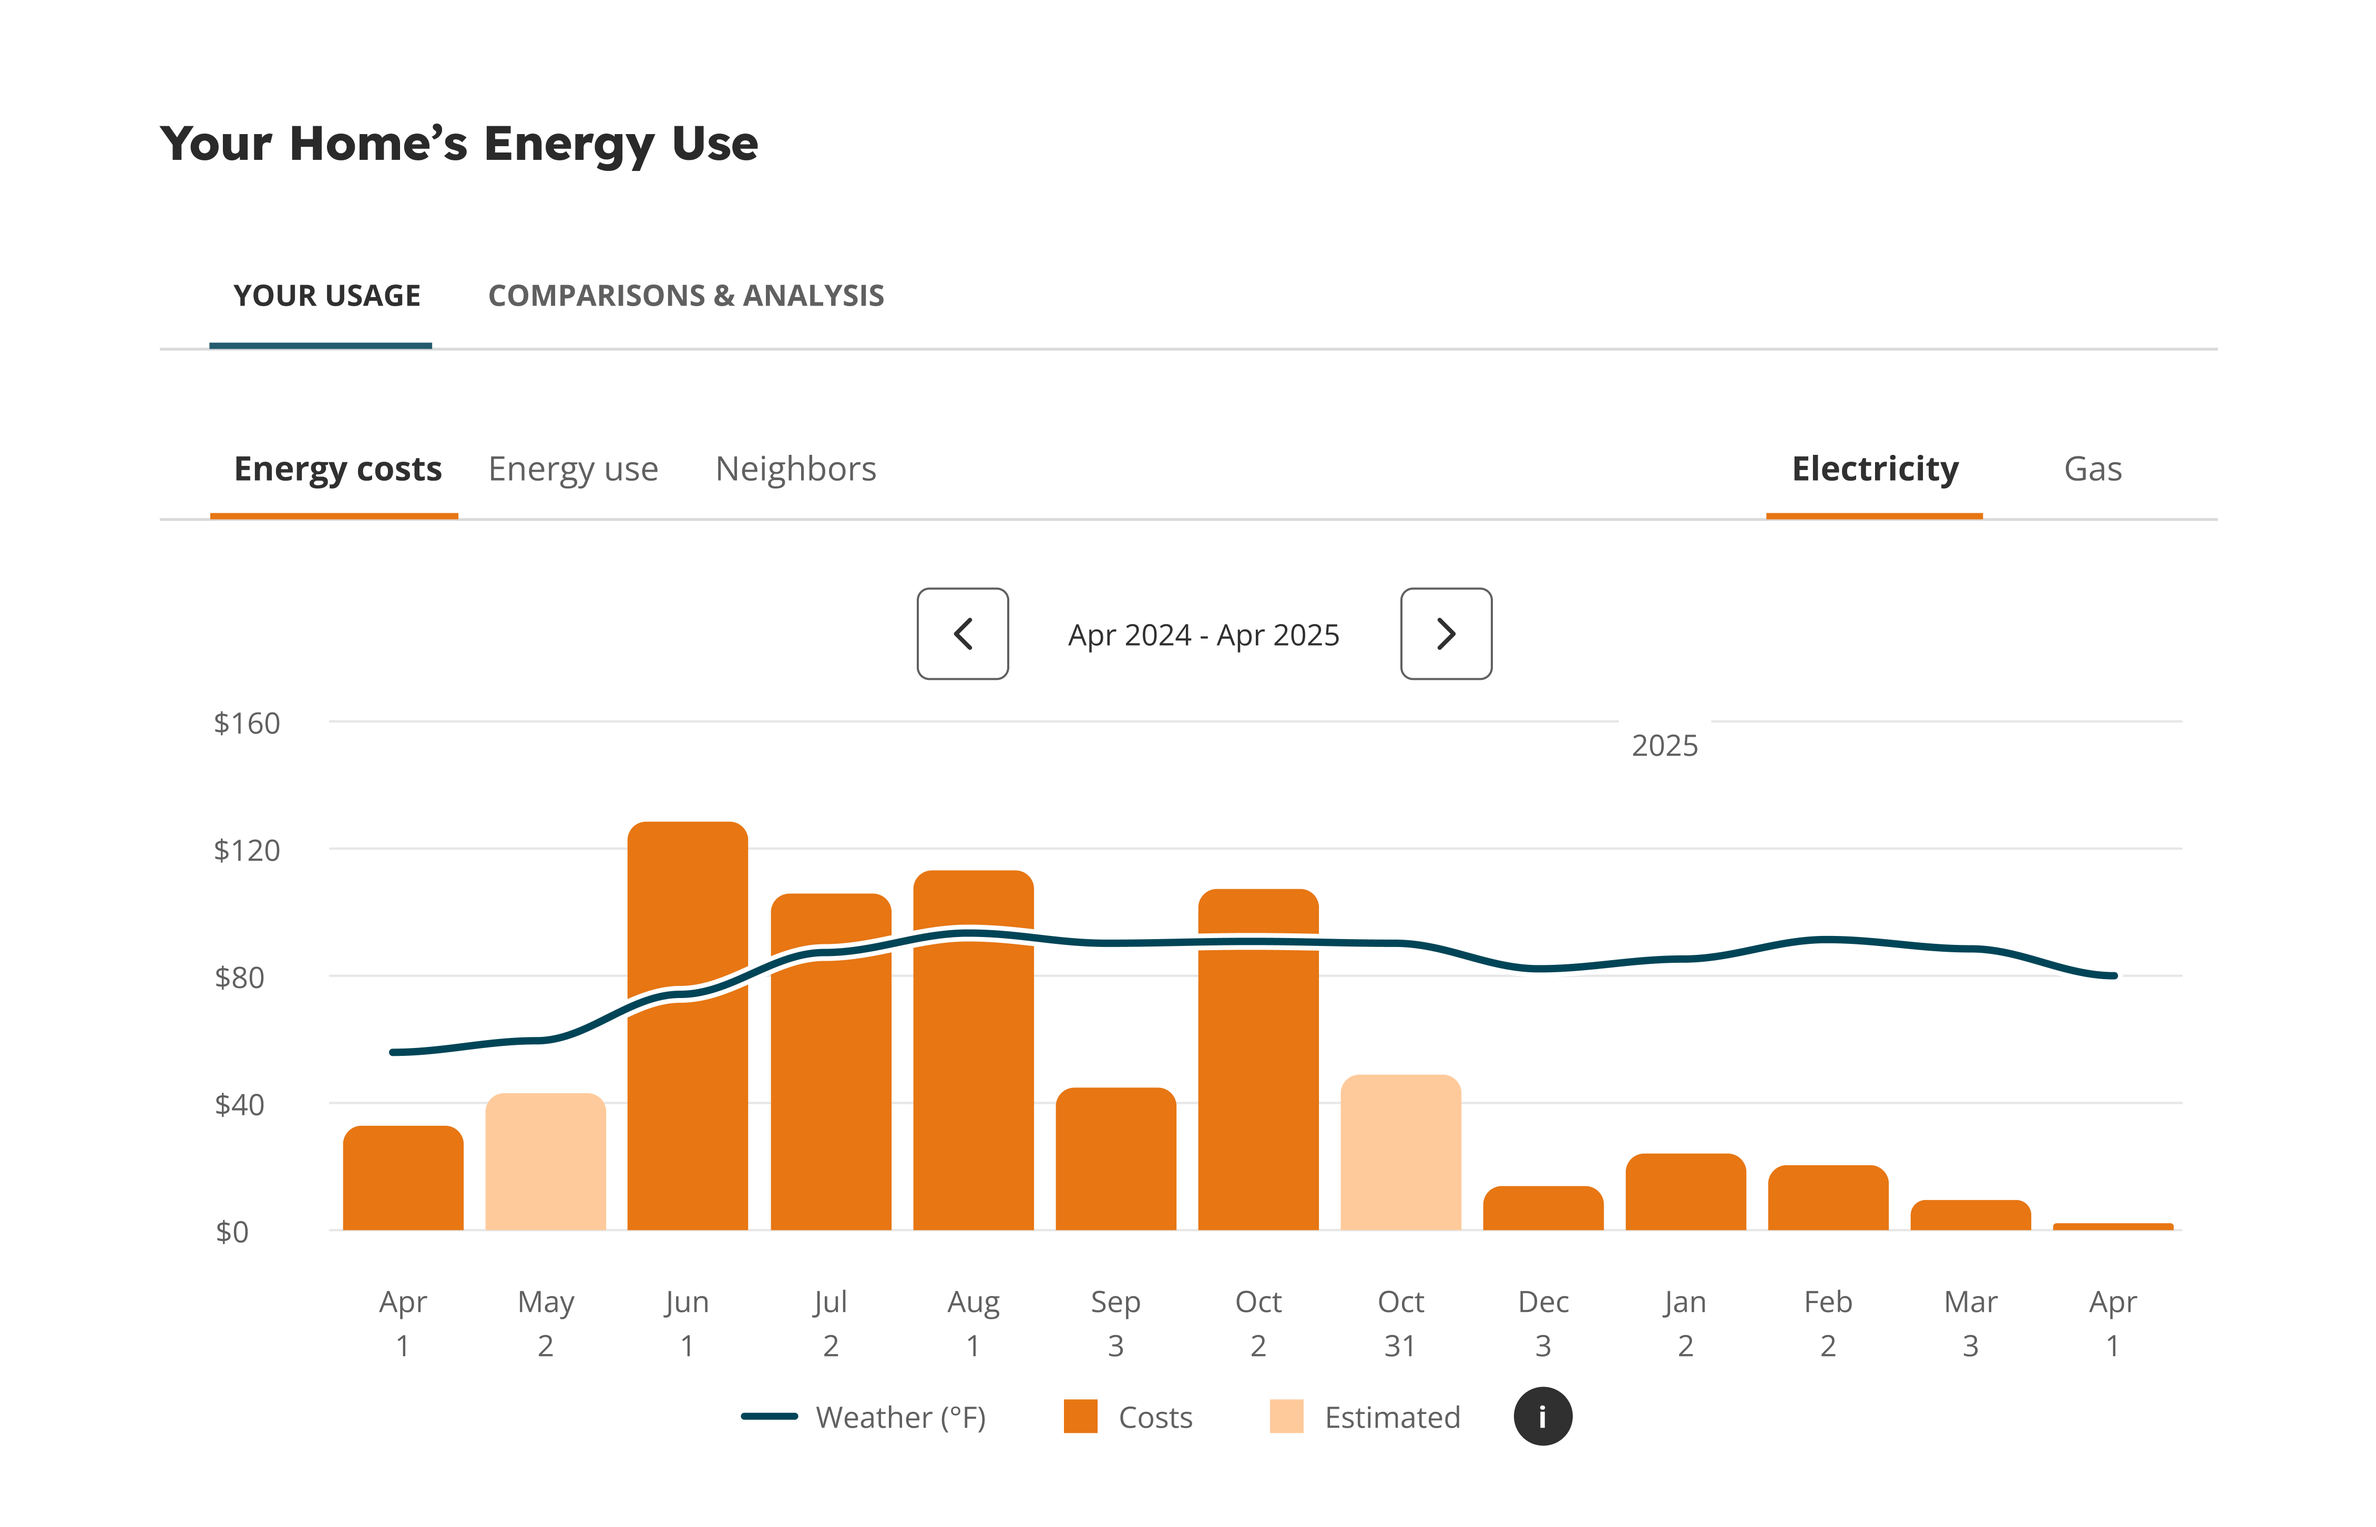
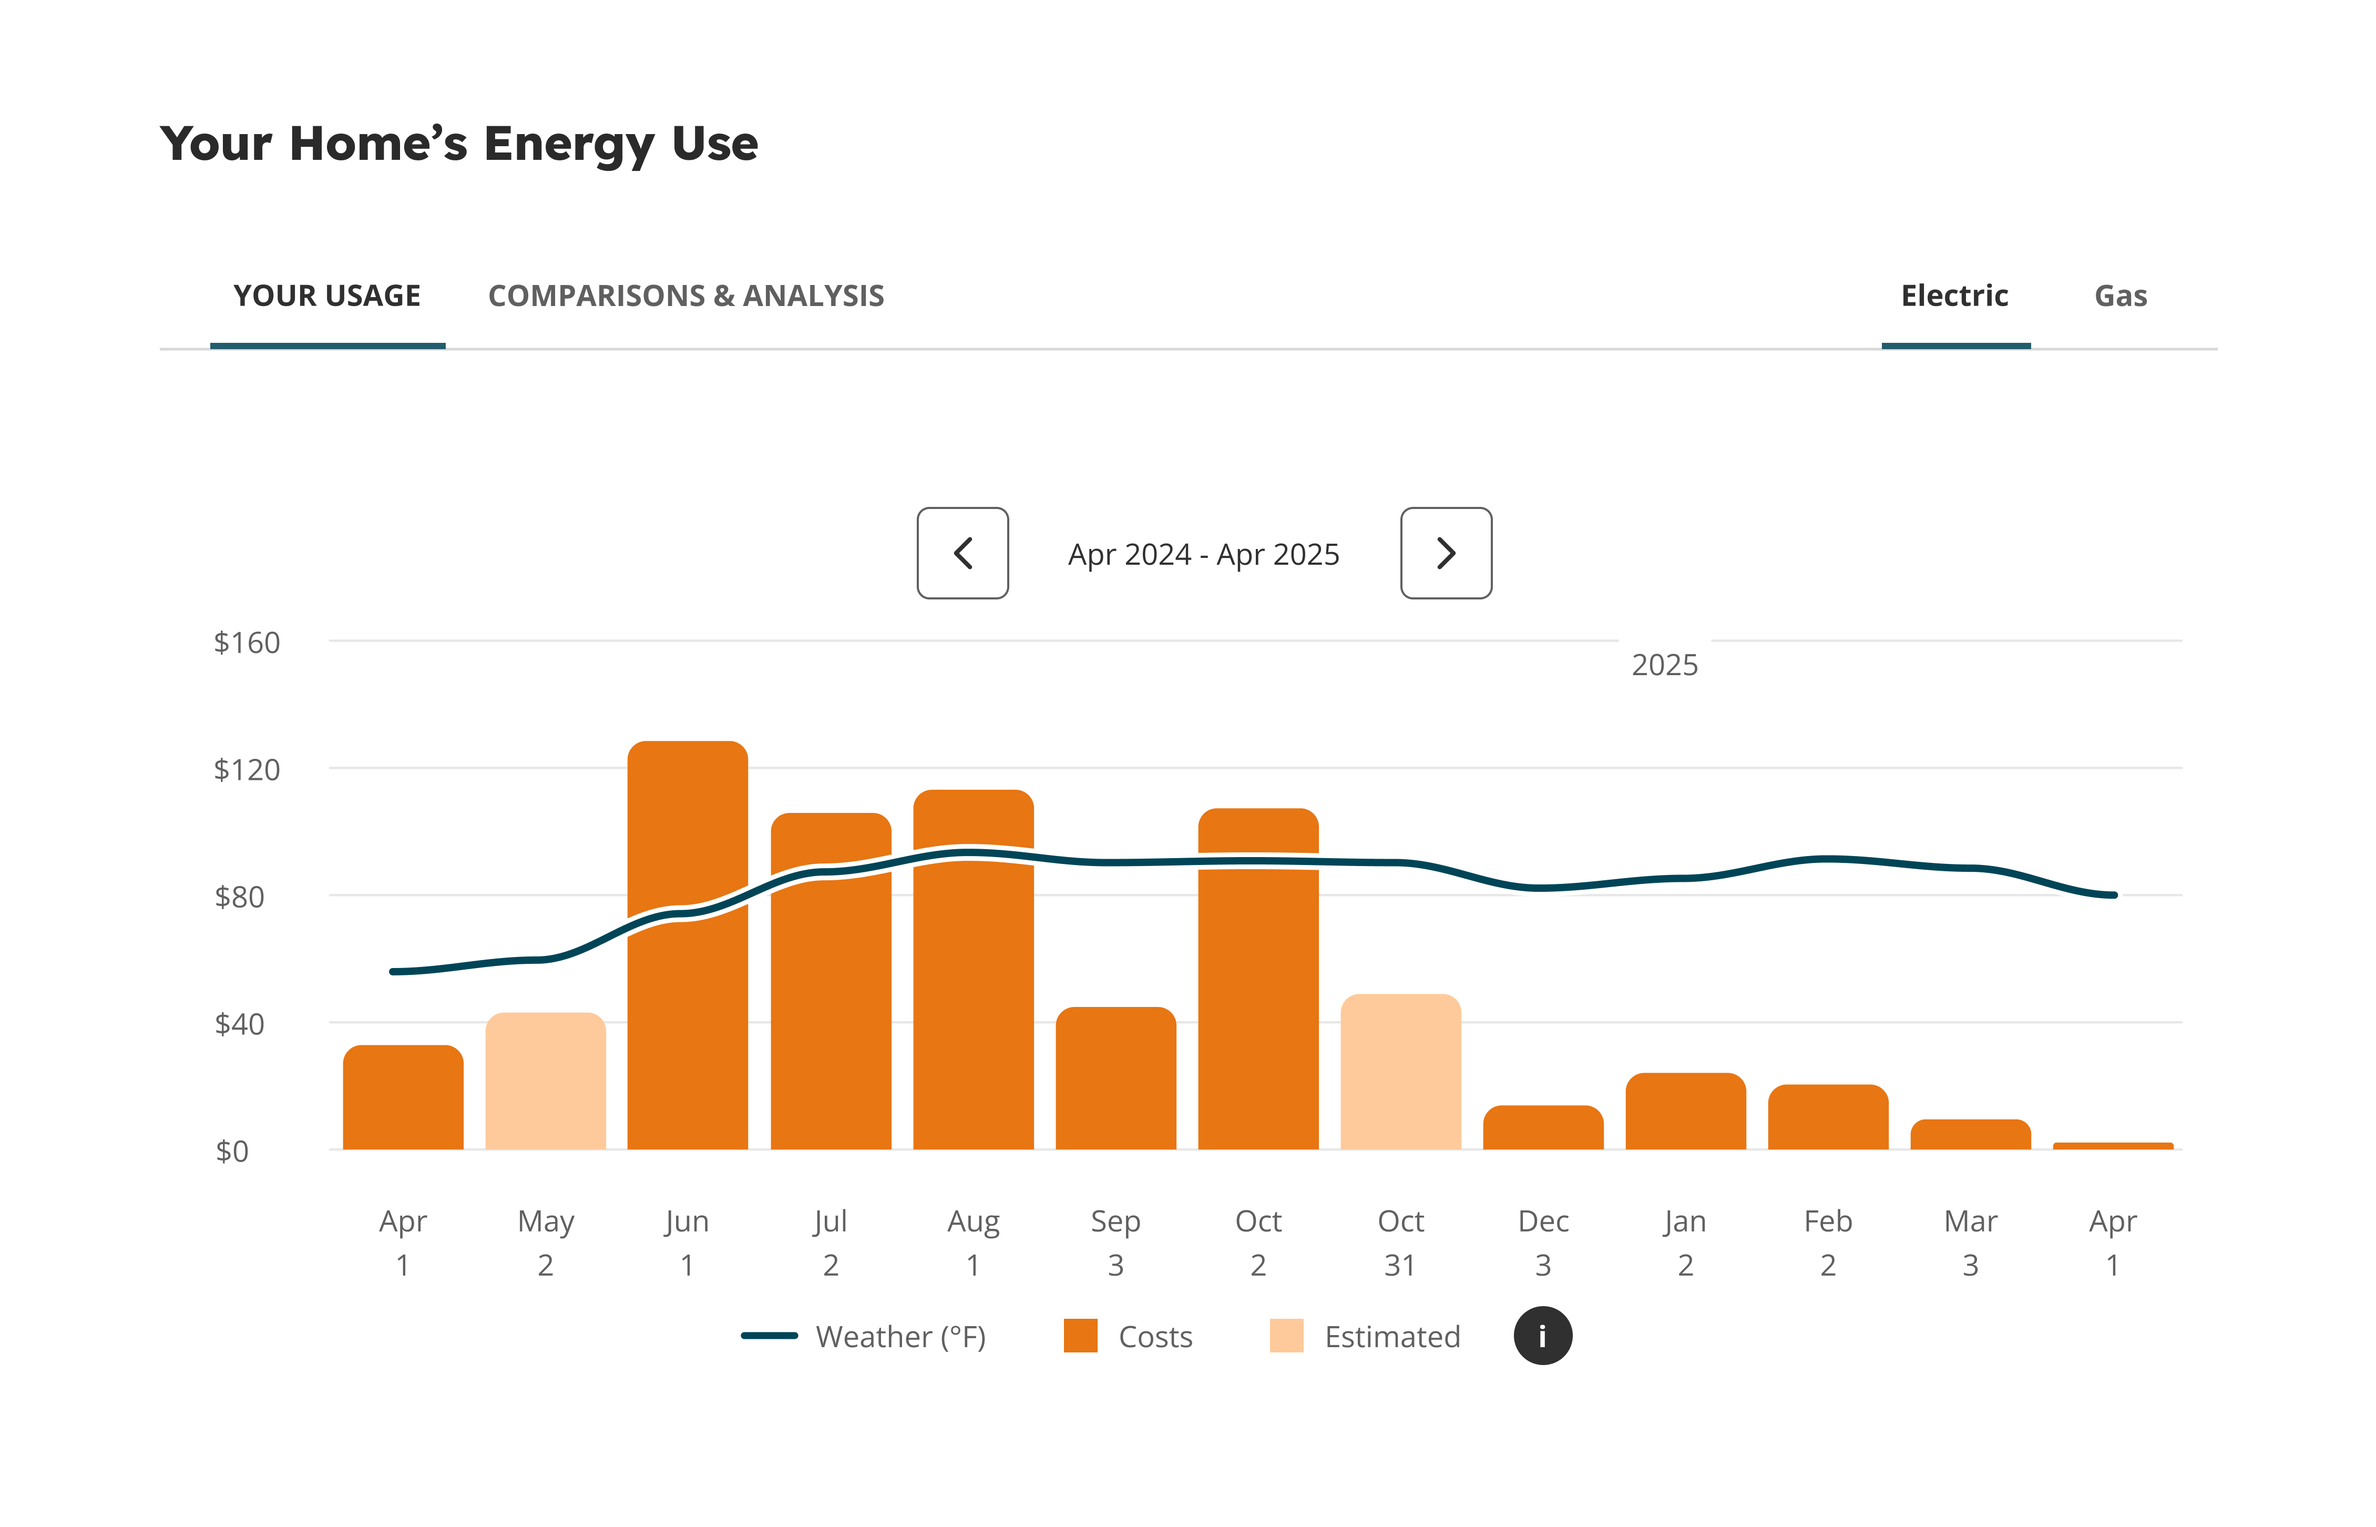
Update Orange and Rockland case study visuals

diff --git a/styles.css b/styles.css
@@ -288,6 +288,9 @@ body.oru-case-body { overflow-x: clip; }
   .oru-hero-visual { margin-top: calc(clamp(-300px, -29svh, -180px) + var(--oru-header-height) - clamp(0px, (100svh - 700px) * .75, 140px)); }
 }
 .oru-case-layout { display: grid; grid-template-columns: minmax(250px, 310px) minmax(0, 1fr); gap: clamp(32px, 4vw, 64px); align-items: start; margin-top: clamp(64px, 8vw, 104px); }
+@media (min-width: 961px) {
+  .oru-case-body .header-identity { margin-left: 15px; }
+}
 .oru-case-sidebar { position: sticky; top: 112px; display: grid; gap: 10px; }
 .oru-case-nav { --oru-nav-motion-duration: 850ms; --oru-nav-motion-easing: cubic-bezier(.22, 1, .36, 1); --oru-nav-description-color: #626262; display: grid; gap: 8px; }
 :root[data-theme="dark"] .oru-case-nav { --oru-nav-description-color: #adafaf; }
@@ -345,7 +348,7 @@ body.oru-case-body { overflow-x: clip; }
 .oru-research-finding h4 { margin: 0; color: var(--on-surface); font-size: clamp(18px, 1.6vw, 22px); font-weight: 600; line-height: 1.18; letter-spacing: -.02em; }
 .oru-research-finding p { margin: 10px 0 0; color: var(--on-surface-variant); font-size: 15px; line-height: 1.5; }
 .oru-research-implication { display: grid; gap: 12px; margin-top: 12px; padding: clamp(20px, 2.5vw, 28px); border-radius: var(--radius-lg); background: #f4770b; color: #20130a; }
-.oru-research-implication strong { max-width: 660px; font-size: clamp(19px, 2vw, 25px); font-weight: 600; line-height: 1.25; letter-spacing: -.02em; }
+.oru-research-implication strong { width: fit-content; max-width: 100%; justify-self: start; font-size: clamp(19px, 2vw, 25px); font-weight: 600; line-height: 1.25; letter-spacing: -.02em; }
 .oru-section-content { display: grid; gap: 16px; max-width: 740px; margin-top: clamp(36px, 5vw, 64px); }
 .oru-section-content h3 { margin: 24px 0 0; color: var(--on-surface); font-family: var(--font-display); font-size: clamp(24px, 2.5vw, 32px); line-height: 1.15; }
 .oru-section-content h3:first-child { margin-top: 0; }

diff --git a/work/orange-rockland/index.html b/work/orange-rockland/index.html
@@ -27,7 +27,7 @@
       })();
     </script>
     <link rel="stylesheet" href="../../assets/vendor/lenis/lenis.css" />
-    <link rel="stylesheet" href="../../styles.css?v=20261124-journey-heading" />
+    <link rel="stylesheet" href="../../styles.css?v=20261124-header-alignment" />
     <script src="../../assets/vendor/lenis/lenis.min.js" defer></script>
     <script src="../../script.js?v=20261124-journey-fit" defer></script>
   </head>
@@ -225,7 +225,7 @@
                     <p>The dashboard brought energy usage and comparisons together with recommendations and resources. I designed the experience to give customers a starting point for exploring their home’s energy needs, rather than asking them to navigate a list of programs alone.</p>
                   </div>
                   <figure class="oru-overview-visual oru-overview-usage">
-                  <img src="../../assets/oru-overview-usage.png" width="4520" height="2904" alt="Dashboard chart showing household electricity costs over time alongside weather." />
+                  <img src="../../assets/oru-overview-usage.png?v=20261124-updated-2" width="4520" height="2904" alt="Dashboard chart showing household electricity costs over time alongside weather." />
                   </figure>
                 </div>
                 <div class="oru-design-feature">
